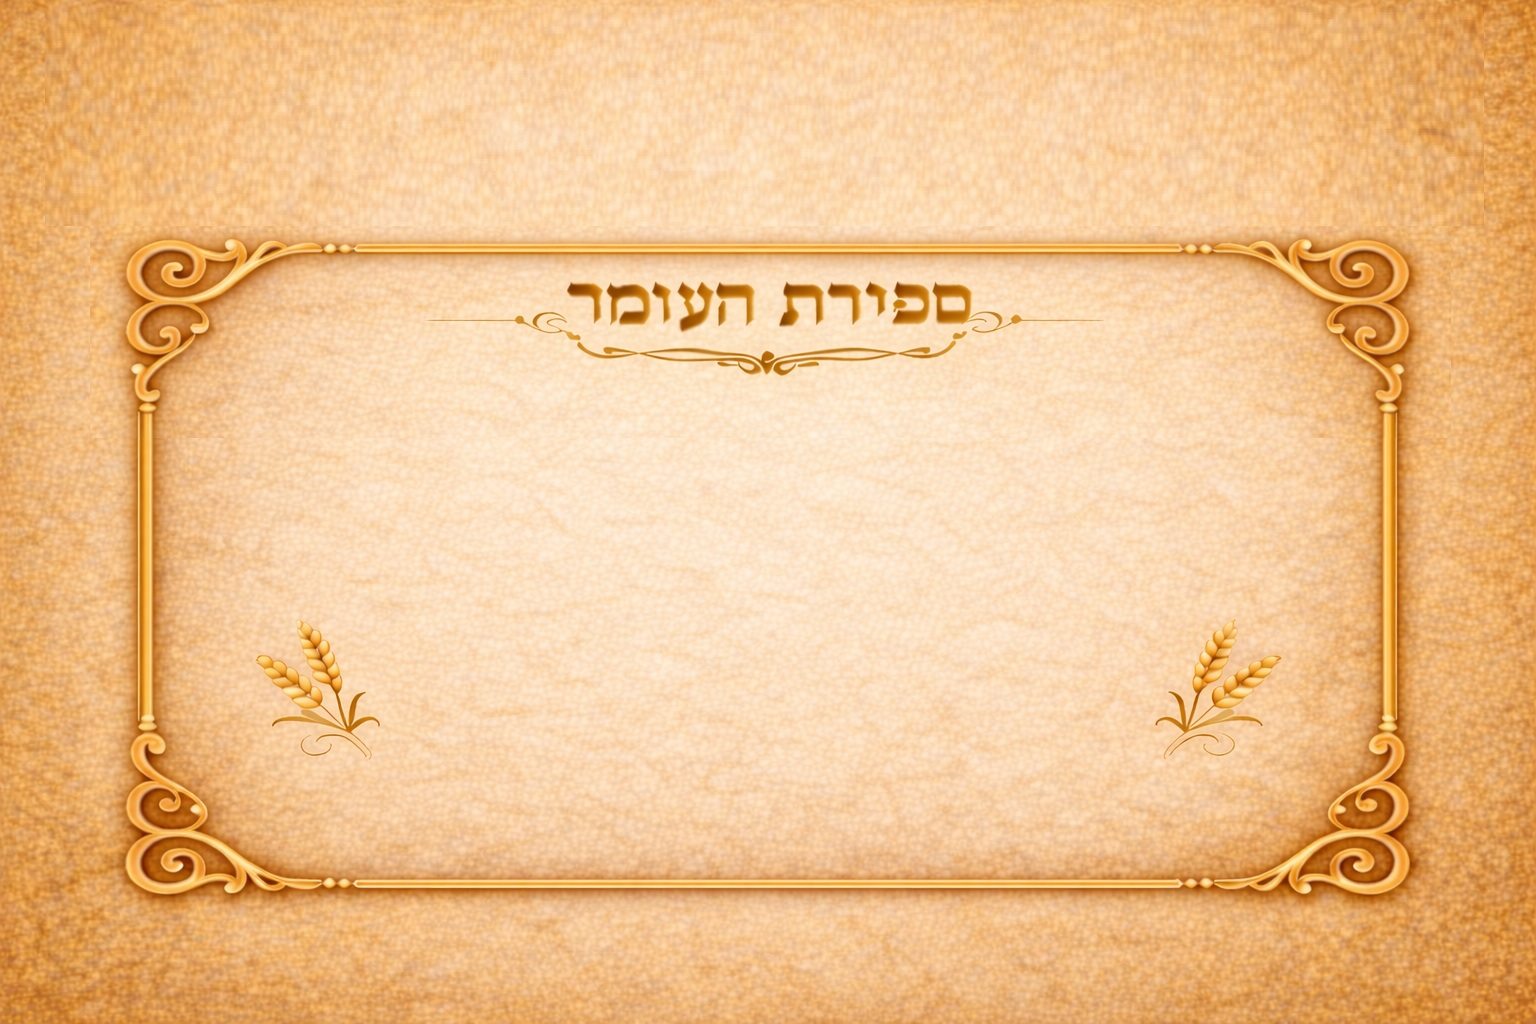
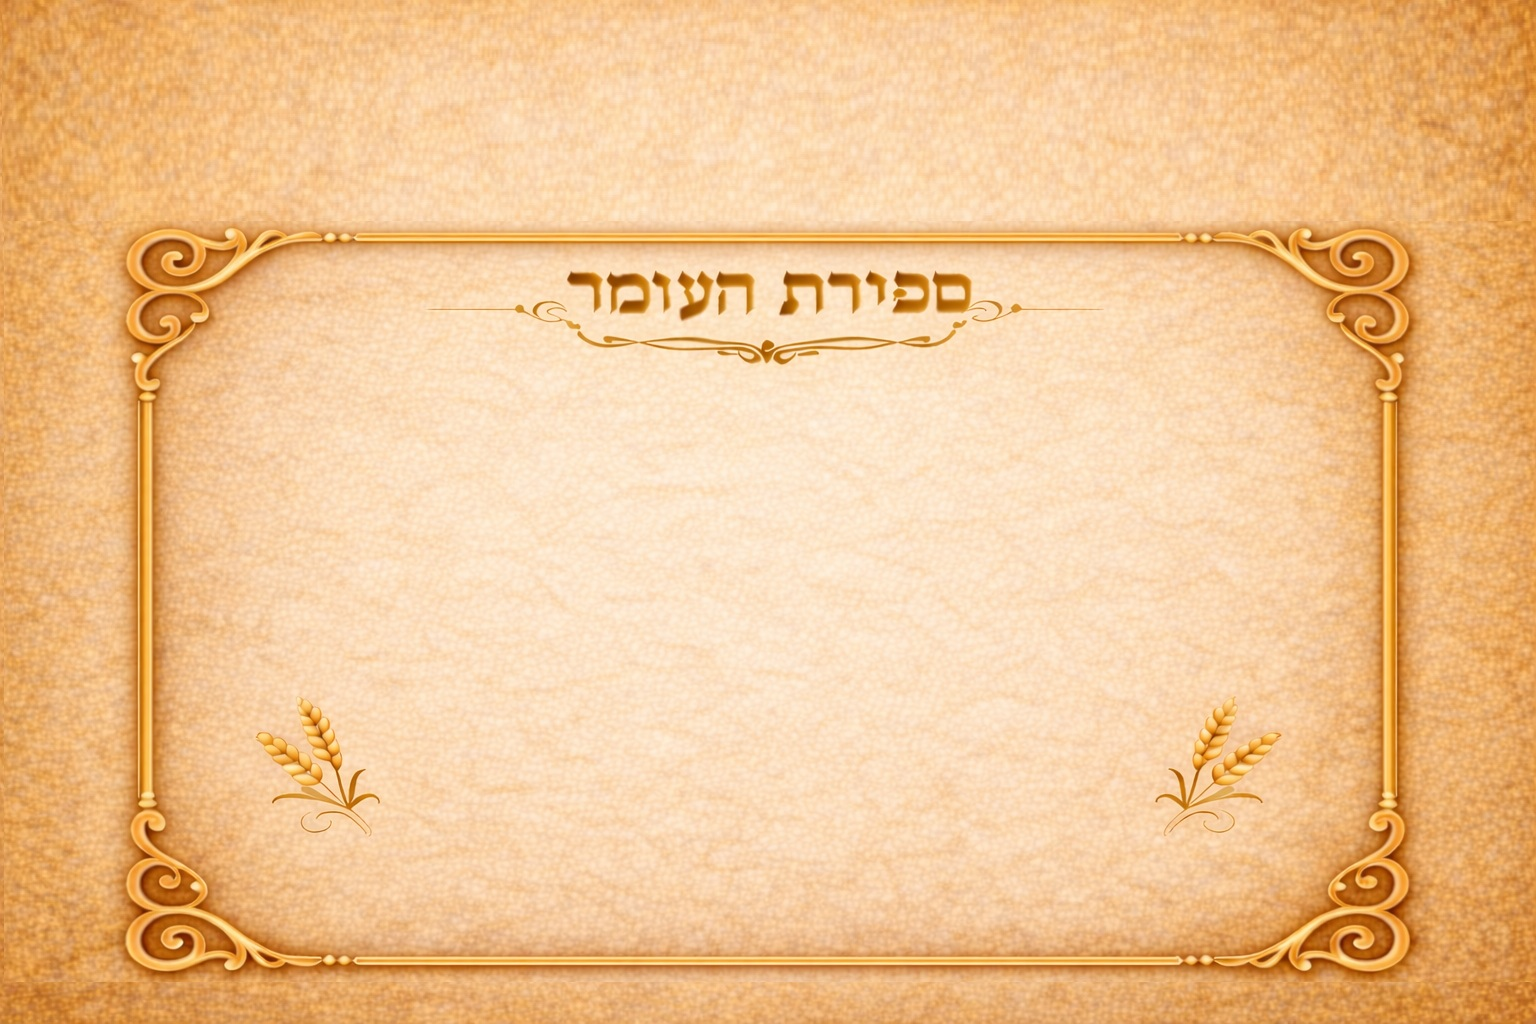
feat: add empty sfira image and adjust vertical positioning for sfira elements

diff --git a/index.css b/index.css
@@ -220,7 +220,7 @@
 
 .sfira-right {
     position: absolute;
-    bottom: 16vh;
+    bottom: 8vh;
     right: 16vw;
     z-index: 22;
     font-size: 4.4vw;
@@ -228,7 +228,7 @@
 
 .sfira-left {
     position: absolute;
-    bottom: 16vh;
+    bottom: 8vh;
     left: 16vw;
     z-index: 22;
     font-size: 4.4vw;
